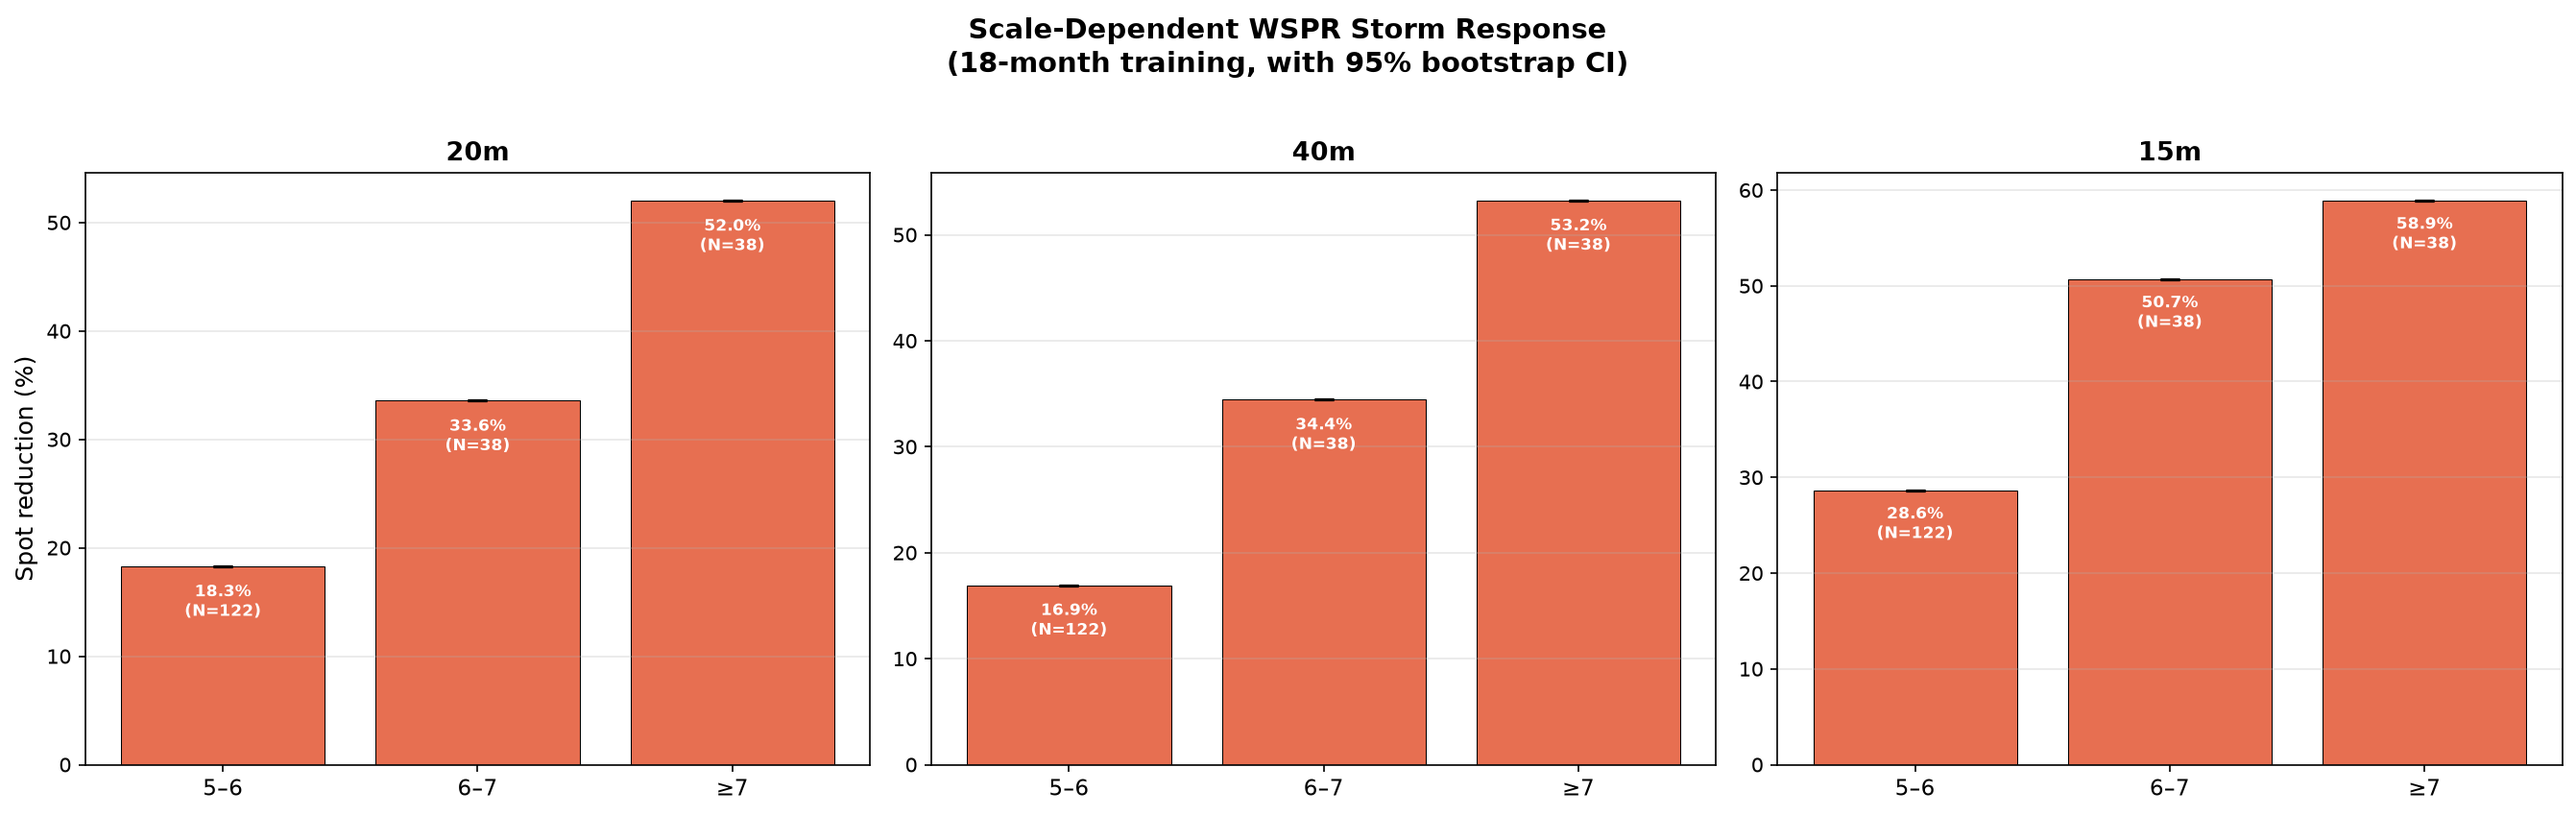
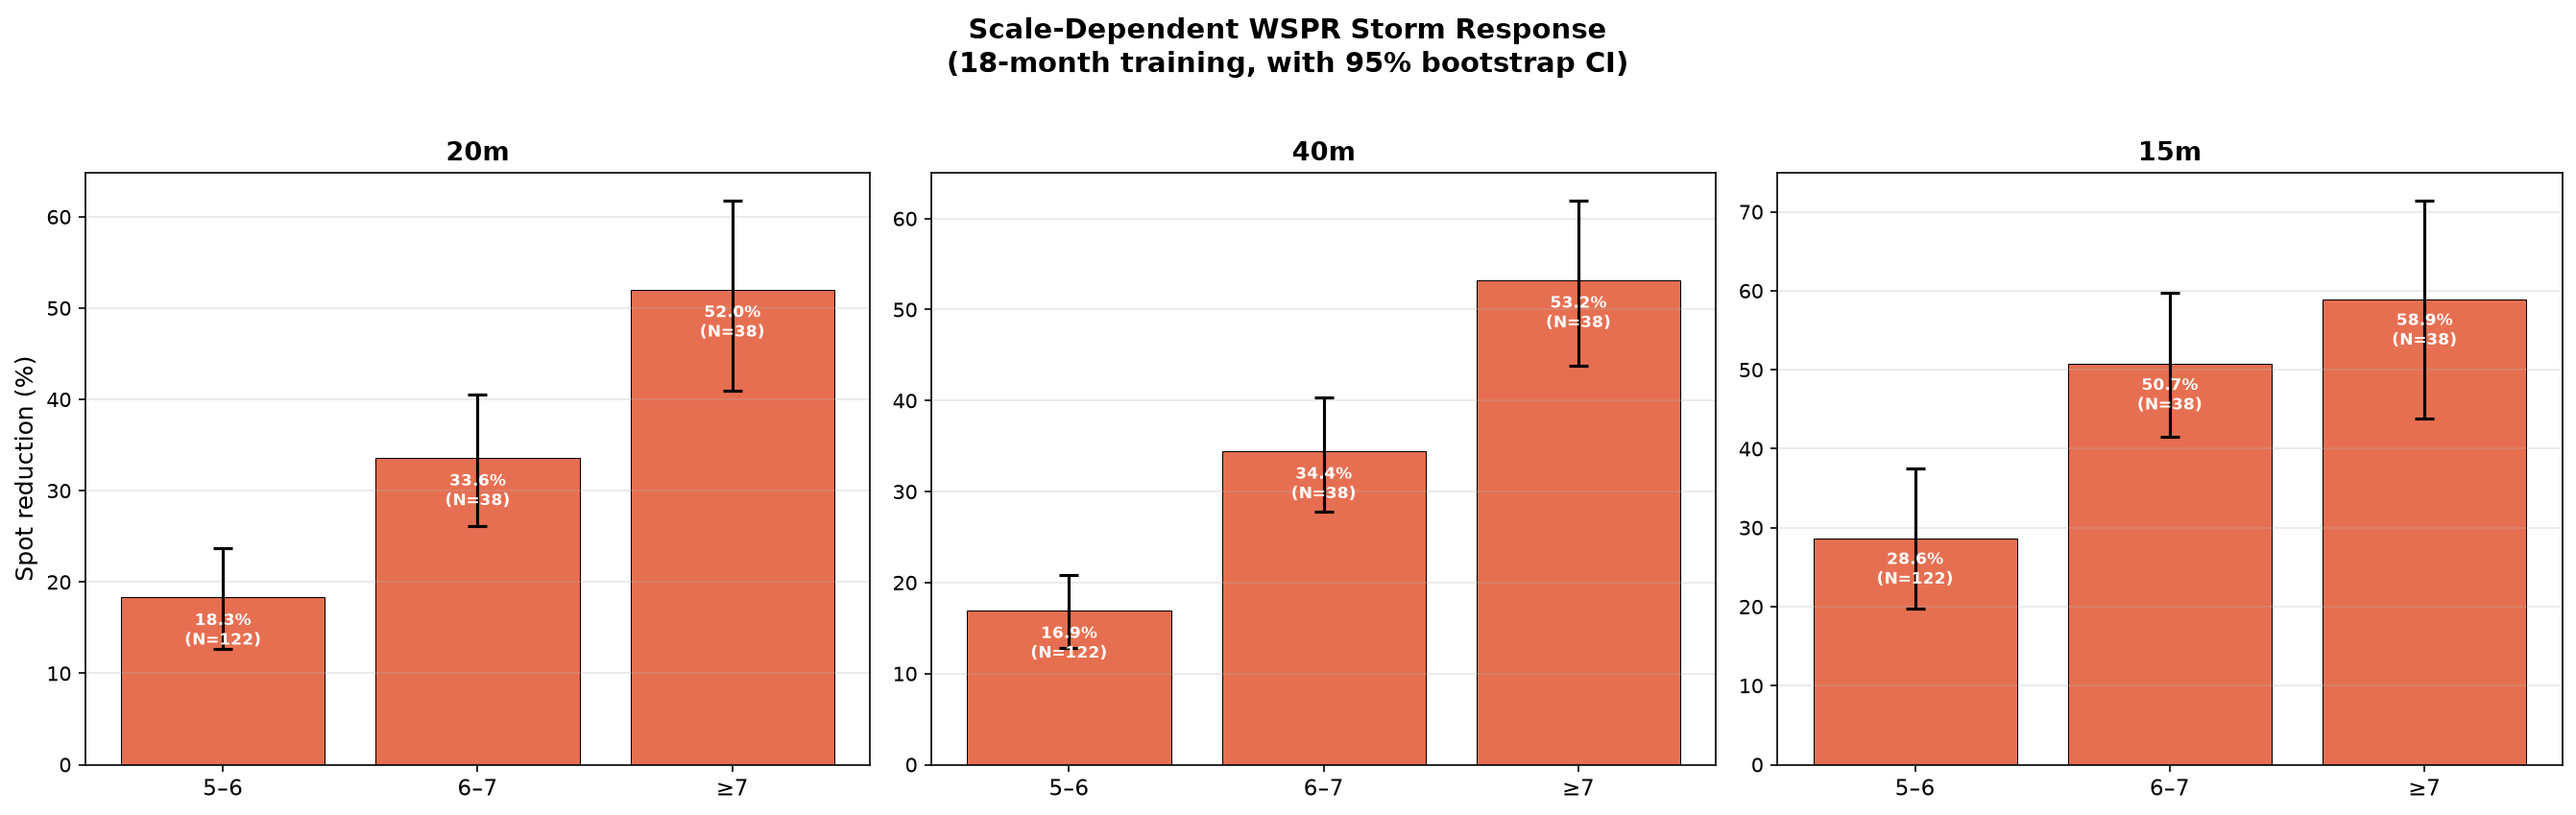
fix(paper): correct 95% CI inversion in Fig 2/4 and resolve §5.3 percentage/absolute contradiction

diff --git a/scripts/make_paper_figures.py b/scripts/make_paper_figures.py
@@ -103,13 +103,17 @@ for i, band in enumerate(BANDS):
             sm = RNG.choice(s_vals, size=sn).mean()
             drop_dist.append(100 * (sm - qm) / qm)
         drop_dist = np.array(drop_dist)
-        cis_lo.append(abs(-np.percentile(drop_dist, 2.5)))
-        cis_hi.append(abs(-np.percentile(drop_dist, 97.5)))
+        # drop_dist holds negative values (storm - quiet): the 2.5th
+        # percentile is the most negative bound, i.e. the LARGER-magnitude
+        # (upper) CI limit.
+        cis_lo.append(abs(-np.percentile(drop_dist, 97.5)))
+        cis_hi.append(abs(-np.percentile(drop_dist, 2.5)))
         ns.append(len(vals))
 
     x = np.arange(len(Kp_BINS_LABELS))
     yerr = [np.array(drops) - np.array(cis_lo), np.array(cis_hi) - np.array(drops)]
-    yerr = np.clip(yerr, 0, None)
+    if (np.asarray(yerr) < 0).any():
+        raise ValueError("Negative CI half-width in Figure 2; check cis_lo/cis_hi ordering")
 
     bars = axes[i].bar(
         x,
@@ -255,22 +259,24 @@ print("  [OK] results/fig4_day_night.json")
 fig, ax = plt.subplots(figsize=(10, 6))
 x = np.arange(len(BANDS))
 width = 0.35
+# ci_lo is the more negative bound (larger magnitude), ci_hi is closer to
+# zero; map magnitudes to the [lower, upper] error-bar components.
 day_drops = [abs(results_dn[f"{b}_Day"]["drop_pct"]) for b in BANDS]
 day_lo = [
-    abs(results_dn[f"{b}_Day"]["ci_lo"]) if results_dn[f"{b}_Day"]["ci_lo"] != 0 else 0
+    abs(results_dn[f"{b}_Day"]["ci_hi"]) if results_dn[f"{b}_Day"]["ci_hi"] != 0 else 0
     for b in BANDS
 ]
 day_hi = [
-    abs(results_dn[f"{b}_Day"]["ci_hi"]) if results_dn[f"{b}_Day"]["ci_hi"] != 0 else 0
+    abs(results_dn[f"{b}_Day"]["ci_lo"]) if results_dn[f"{b}_Day"]["ci_lo"] != 0 else 0
     for b in BANDS
 ]
 night_drops = [abs(results_dn[f"{b}_Night"]["drop_pct"]) for b in BANDS]
 night_lo = [
-    abs(results_dn[f"{b}_Night"]["ci_lo"]) if results_dn[f"{b}_Night"]["ci_lo"] != 0 else 0
+    abs(results_dn[f"{b}_Night"]["ci_hi"]) if results_dn[f"{b}_Night"]["ci_hi"] != 0 else 0
     for b in BANDS
 ]
 night_hi = [
-    abs(results_dn[f"{b}_Night"]["ci_hi"]) if results_dn[f"{b}_Night"]["ci_hi"] != 0 else 0
+    abs(results_dn[f"{b}_Night"]["ci_lo"]) if results_dn[f"{b}_Night"]["ci_lo"] != 0 else 0
     for b in BANDS
 ]
 
@@ -282,8 +288,8 @@ night_yerr = [
     [night_drops[i] - night_lo[i] for i in range(3)],
     [night_hi[i] - night_drops[i] for i in range(3)],
 ]
-day_yerr = np.clip(day_yerr, 0, None)
-night_yerr = np.clip(night_yerr, 0, None)
+if (np.asarray(day_yerr) < 0).any() or (np.asarray(night_yerr) < 0).any():
+    raise ValueError("Negative CI half-width in Figure 4; check ci_lo/ci_hi ordering")
 
 bars1 = ax.bar(
     x - width / 2,

diff --git a/paper/main.tex b/paper/main.tex
@@ -279,8 +279,8 @@ derived from four low-latitude magnetometer stations. It provides finer
 temporal resolution than $Kp$ (hourly versus 3-hourly) and serves as an
 independent storm proxy. The provisional data cover all 18 months of the
 training period (mean $Dst = \SI{-11.5}{nT}$, minimum
-$Dst = \SI{-96}{nT}$). A total of 471 hours satisfy $Dst < \SI{-50}{nT}$
-across 42 storm events, yielding 2.4$\times$ more storm samples
+$Dst = \SI{-96}{nT}$). A total of 471 hours satisfy $Dst < \SI{-50}{nT}$,
+yielding 2.4$\times$ more storm samples
 (471 vs 198) and 2.9$\times$ larger total sample size
 (12\,508 vs 4\,349) than the $Kp$-based analysis.
 
@@ -1009,12 +1009,12 @@ in only 38 epochs (114\,h, 0.87\%) of the 18-month training period.
 The absolute-loss comparison across training and held-out periods (Section~\ref{sec:invariant}) has direct implications for operational HF propagation monitoring:
 
 \begin{enumerate}
-	\item \textbf{Percentage metrics are network-dependent:} Percentage-based
-	      metrics are unstable when the denominator (network size) changes
-	      over time. Absolute spot loss per hour is a physically meaningful
-	      alternative that is more directly interpretable as a propagation
-	      quantity, though its stability across periods should not be assumed
-	      without validation (see next item).
+	\item \textbf{Percentage metrics are network-independent:} Percentage-based
+	      metrics remain relatively stable when the network size changes
+	      over time, because both numerator and denominator scale
+	      proportionally. Absolute spot loss per hour, in contrast, scales
+	      with the network and should not be assumed stable across periods
+	      without periodic re-validation (see next item).
 	\item \textbf{Metric stability caveat:} The apparent 40\,m invariance
 	      in the initial snapshot did not survive an updated held-out
 	      download (ratio = 1.44), so absolute loss per hour should not be
